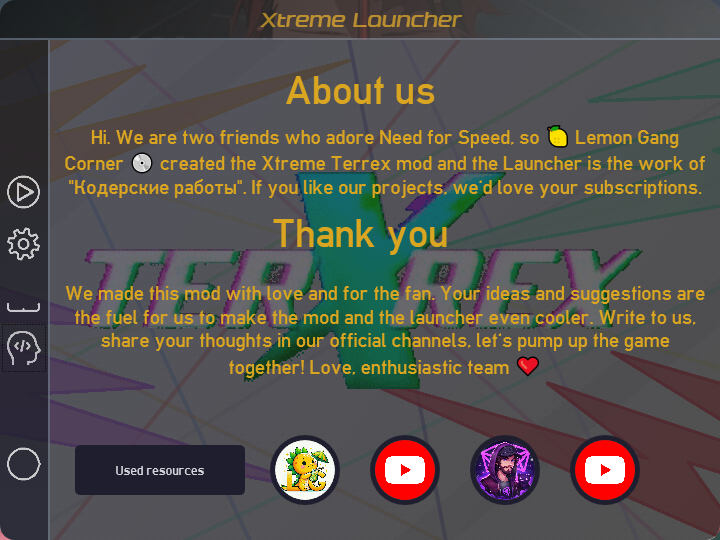
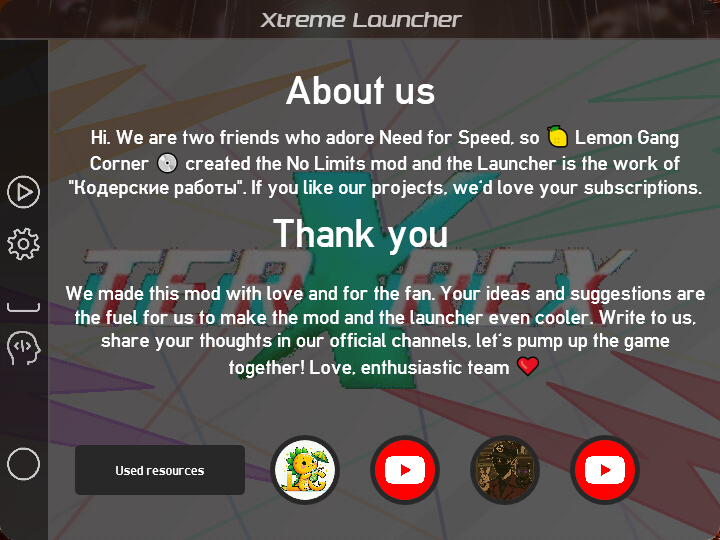
Update info

diff --git a/README.md b/README.md
@@ -1,9 +1,9 @@
-# Xtreme Terrex Launcher
+# Xtreme Launcher
 
 ![Launcher Screenshot](./images/launcher.png)
 
 ## О проекте
-**Xtreme Terrex Launcher** - это активно разрабатываемый лаунчер для модификации **Xtreme Terrex** по игре *Need for Speed: Most Wanted 2005 года*. Эта версия лаунчера не является финальной, и он будет постоянно дорабатываться и улучшаться.
+**Xtreme Launcher** - это активно разрабатываемый лаунчер для модификации **No Limits** по игре *Need for Speed: Most Wanted 2005 года*. Эта версия лаунчера не является финальной, и он будет постоянно дорабатываться и улучшаться.
 
 ## Важно
 - Обратите внимание, что последний коммит может не содержать все нововведения и обновления.
@@ -12,14 +12,14 @@
 ## Новости и обновления
 Следите за новостями и обновлениями на моём основном канале в Telegram: [Кодерские работы](https://t.me/CoderW0rker).
 
-<img src="./images/CoderWorkerLogo.jpg" alt="Telegram Avatar" width="100" height="100">
-© 2024 Wixon aka CoderWorker. Все права защищены.
+<img src="./images/CoderWorkerLogo.png" alt="Telegram Avatar" width="100" height="100">
+© 2025 Wixon aka CoderWorker. Все права защищены.
 
-# Xtreme Terrex Launcher
+# Xtreme Launcher
 ![Launcher Screenshot](./images/launcher2.png)
 
 ## About the Project
-**Xtreme Terrex Launcher** is an actively developed launcher for the **Xtreme Terrex** modification for the game *Need for Speed: Most Wanted 2005*. This version of the launcher is not final and will be continuously refined and improved.
+**Xtreme Launcher** is an actively developed launcher for the **No Limits** modification for the game *Need for Speed: Most Wanted 2005*. This version of the launcher is not final and will be continuously refined and improved.
 ss
 ## Important
 - Please note that the latest commit may not include all new features and updates.
@@ -28,5 +28,5 @@ ss
 ## News and Updates
 Follow the news and updates on my main Telegram channel: [CoderWorker](https://t.me/CoderW0rker).
 
-<img src="./images/CoderWorkerLogo.jpg" alt="Telegram Avatar" width="100" height="100" >
-© 2024 Wixon aka CoderWorker. All rights reserved.
+<img src="./images/CoderWorkerLogo.png" alt="Telegram Avatar" width="100" height="100" >
+© 2025 Wixon aka CoderWorker. All rights reserved.
